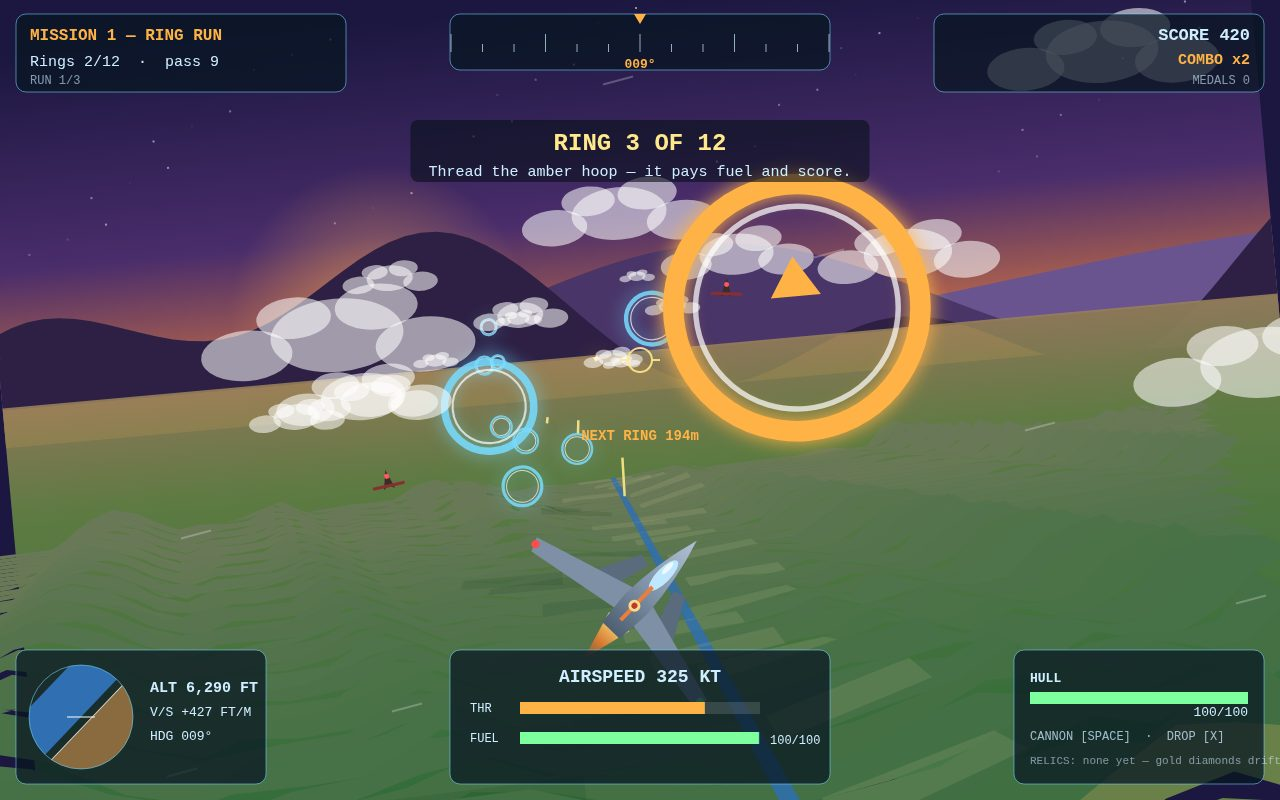
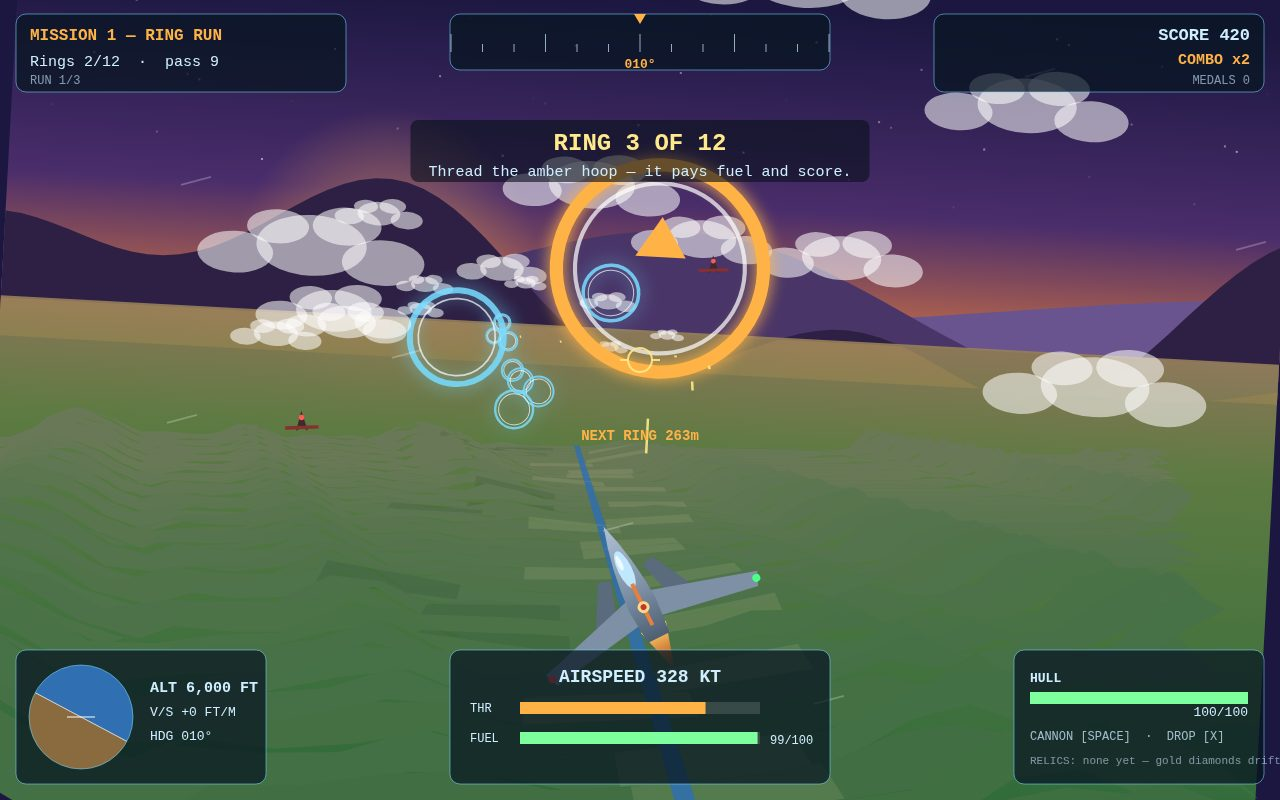
Balance + autopilot: gentler ring courses, heading-aware autopilot, hittable bosses
- Ring courses: steps +-130 x / +-140 y, spacing 420, radius 55; the
  autopilot now steers by desired heading (was position-only, oscillated
  and missed 9/12 rings). Headless autopilot run now clears all 3
  missions: 12/12 rings, 3/3 crates, both bosses, victory at 88 s.
- Stormhawk weave slowed (amp 150, 0.5 rad/s), bullet speed 1200,
  boss hit radius 48, fire interval 1.8 s.
- Screenshots re-staged (cover ring 263 m out, boss lane cleared of
  storm clouds); offscreen blit + 0.9 s freeze-frame for clean shots.

diff --git a/game/src/demo.js b/game/src/demo.js
@@ -33,11 +33,18 @@ export function autopilot(G, input) {
   // Drones in the way are worth a burst.
   if (G.drones.length && Math.abs(G.drones[0].z - p.z) < 800) wantFire = true;
 
+  // Heading-aware steering: aim the nose at the objective, don't chase it
+  // with raw position error (that oscillates — the heading outlives the
+  // bank that made it, so a position-only controller overshoots every ring).
   const dx = tx - p.x;
-  input.left = dx < -18;
-  input.right = dx > 18;
-  input.up = p.y < ty - 24;
-  input.down = p.y > ty + 24;
+  const desiredHeading = Math.atan2(dx, 320);
+  const headingErr = desiredHeading - p.heading;
+  input.left = headingErr < -0.03;
+  input.right = headingErr > 0.03;
+  // Pitch: climb or dive toward the objective's altitude, with a dead band.
+  const dy = ty - p.y;
+  input.up = dy > 30;
+  input.down = dy < -30;
   input.throttleUp = p.throttle < 0.72;
   input.throttleDown = p.throttle > 0.78;
   input.fire = wantFire;
@@ -72,14 +79,14 @@ export function stageShot(G, shot, seed, terrain) {
     startMission(G, 0, seed);
     G.screen = 'playing';
     G.autopilot = true;
-    p.z = 900; // next ring 300 m ahead
+    p.z = 700; // next ring ~260 m out once the 0.9 s freeze-frame settles
     p.x = -40; p.y = 400;
     p.throttle = 0.85; p.speed = 265; p.bank = 0.22; p.climb = 0;
     G.rings[0].passed = true; G.rings[1].passed = true;
     G.ringIndex = 2;
     G.rings[2].x = 60; G.rings[2].y = 430; G.rings[2].z = 1200;
-    G.rings[3].x = -90; G.rings[3].y = 380; G.rings[3].z = 1550;
-    G.rings[4].x = 140; G.rings[4].y = 470; G.rings[4].z = 1900;
+    G.rings[3].x = -90; G.rings[3].y = 380; G.rings[3].z = 1620;
+    G.rings[4].x = 140; G.rings[4].y = 470; G.rings[4].z = 2040;
     G.missionStats.ringsPassed = 2;
     G.combo = 2; G.comboTimer = 5;
     G.score = 420;
@@ -107,9 +114,14 @@ export function stageShot(G, shot, seed, terrain) {
     const boss = G.bosses.find((b) => b.kind === 'stormhawk');
     if (boss) { boss.hp = 0; G.missionStats.bossesDown = 1; }
     G.bosses = G.bosses.filter((b) => b.hp > 0);
-    // The Leviathan arrives already damaged and firing.
-    const lev = { kind: 'airship', x: -30, y: 470, z: p.z + 850, hp: 150, maxHp: 260, fireTimer: 0.5, phase: 2, speed: 0.4, droneTimer: 5 };
+    // The Leviathan arrives already damaged and firing, close enough to
+    // read clearly. Storm clouds are pushed to the flanks so the centre
+    // lane — and the boss — stay visible.
+    const lev = { kind: 'airship', x: -60, y: 500, z: p.z + 850, hp: 150, maxHp: 260, fireTimer: 0.5, phase: 2, speed: 0.4, droneTimer: 5 };
     G.bosses.push(lev);
+    for (const c of G.clouds) {
+      if (c.storm) c.x = (c.x < 0 ? -1 : 1) * (330 + Math.abs(c.x) % 140);
+    }
     G.drones = [
       { x: 200, y: 420, z: p.z + 500, hp: 30, maxHp: 30, fireTimer: 0.6, phase: 0.5 },
       { x: -260, y: 560, z: p.z + 680, hp: 30, maxHp: 30, fireTimer: 1.2, phase: 2 },

diff --git a/game/src/missions.js b/game/src/missions.js
@@ -58,7 +58,7 @@ export function startMission(G, index, seed) {
   G.rings = m.rings ? buildRingCourse(seed + index * 13, m.rings, 0) : [];
   G.zones = m.zones ? buildDropZones(seed + index * 7) : [];
   G.crates = m.zones || 0;
-  G.relicPickups = buildRelicPickups(seed + index * 3, RELICS, m.rings ? m.rings * 350 : 4500, p.relicLuck);
+  G.relicPickups = buildRelicPickups(seed + index * 3, RELICS, m.rings ? m.rings * 420 : 4500, p.relicLuck);
   G.drones = [];
   G.bosses = [];
   G.bullets = [];
@@ -267,11 +267,11 @@ export function updateMission(G, dt, terrain, audio, input) {
     b.phase += dt;
     if (b.kind === 'stormhawk') {
       b.z = p.z + 620;
-      b.x = Math.sin(b.phase * 0.8) * 260;
+      b.x = Math.sin(b.phase * 0.5) * 150;
       b.y = 420 + Math.sin(b.phase * 1.4) * 160;
       b.fireTimer -= dt;
       if (b.fireTimer <= 0) {
-        b.fireTimer = 1.5;
+        b.fireTimer = 1.8;
         enemyFire(G, b, audio);
       }
     } else {
@@ -335,7 +335,7 @@ export function updateMission(G, dt, terrain, audio, input) {
     }
     for (const boss of G.bosses) {
       if (boss.hp <= 0) continue;
-      const radius = boss.kind === 'airship' ? 150 : 34;
+      const radius = boss.kind === 'airship' ? 150 : 48;
       if (Math.abs(b.z - boss.z) < 30 && Math.hypot(b.x - boss.x, b.y - boss.y) < radius) {
         boss.hp -= p.bulletDamage;
         b.life = 0;
@@ -397,7 +397,7 @@ export function updateMission(G, dt, terrain, audio, input) {
   G.messages = G.messages.filter((msg) => msg.timer > 0);
 
   // ---- Mission end conditions ----
-  const courseEnd = m.rings ? m.rings * 350 + 800 : m.zones ? 1600 + 2 * 1500 + 500 : 0;
+  const courseEnd = m.rings ? m.rings * 420 + 800 : m.zones ? 1600 + 2 * 1500 + 500 : 0;
   if (m.id === 1 && p.z > courseEnd) {
     const ok = G.missionStats.ringsPassed >= m.need;
     endMission(G, ok, ok ? `Rings ${G.missionStats.ringsPassed}/${m.rings} — the ridge salutes you.` : `Only ${G.missionStats.ringsPassed}/${m.rings} rings. The ridge keeps its secrets.`, audio);

diff --git a/game/src/config.js b/game/src/config.js
@@ -18,7 +18,7 @@ export const FLIGHT = {
   cruiseThrottle: 0.68,
   accelRate: 55, // speed units/s^2 toward throttle target
   maxBank: 0.95, // radians of visual bank at full stick
-  turnRate: 0.42, // heading change per second at full bank, scaled by speed
+  turnRate: 0.55, // heading change per second at full bank, scaled by speed
   climbRate: 150, // world units/s of altitude at full pitch
   minAltitude: 40, // hard floor above the highest hill + margin
   maxAltitude: 950,
@@ -34,9 +34,9 @@ export const FLIGHT = {
   flakDamage: 10,
   stormDamagePerSec: 9,
   fireInterval: 0.12, // seconds between cannon shots
-  bulletSpeed: 950,
+  bulletSpeed: 1200,
   bulletRange: 1300,
-  ringRadius: 42, // world units; flying through the hoop counts
+  ringRadius: 55, // world units; flying through the hoop counts
   ringScore: 100,
   droneKillScore: 150,
   bossKillScore: 1000,

diff --git a/game/src/render.js b/game/src/render.js
@@ -2,7 +2,7 @@
 // One job: paint one frame of the world in depth order (far to near), then
 // the jet. The HUD and the menus live in hud.js, not here.
 
-import { VIEW, PALETTE } from './config.js';
+import { VIEW, PALETTE, FLIGHT } from './config.js';
 import { drawSky, drawRidges } from './terrain.js';
 import { project, drawPlayerJet, drawDrone, drawAirship, drawTracer } from './aircraft.js';
 import { clamp } from './random.js';
@@ -131,7 +131,7 @@ function drawCloud(ctx, cam, c, time) {
 function drawRing(ctx, cam, ring, isNext, time) {
   const p = project(cam, ring.x, ring.y, ring.z);
   if (!p) return;
-  const r = 42 * p.s;
+  const r = FLIGHT.ringRadius * p.s;
   if (r < 2) return;
   const pulse = isNext ? 1 + 0.12 * Math.sin(time * 6) : 1;
   ctx.save();

diff --git a/game/src/rings.js b/game/src/rings.js
@@ -12,9 +12,11 @@ export function buildRingCourse(seed, count, startZ) {
   let x = 0;
   let y = 320;
   for (let i = 0; i < count; i++) {
-    x = clamp(x + (rand() * 2 - 1) * 260, -320, 320);
-    y = clamp(y + (rand() * 2 - 1) * 260, 150, 700);
-    rings.push({ x, y, z: startZ + 500 + i * 350, passed: false, missed: false });
+    // Gentle steps: the pilot has ~1.7 s between rings, so each hoop sits
+    // within one comfortable turn of the last, never a snap across the sky.
+    x = clamp(x + (rand() * 2 - 1) * 130, -320, 320);
+    y = clamp(y + (rand() * 2 - 1) * 140, 150, 700);
+    rings.push({ x, y, z: startZ + 500 + i * 420, passed: false, missed: false });
   }
   return rings;
 }

diff --git a/game/src/main.js b/game/src/main.js
@@ -230,6 +230,9 @@ function frame(now) {
 if (shot) {
   stageShot(G, shot, seed, terrain);
   G.autopilot = shot !== 'score';
+  // ?freeze=0 lets a staged run play out in full (endurance testing):
+  // the frame no longer freezes 0.9 s in.
+  if (params.get('freeze') === '0') G.shotMode = false;
 } else if (demoMode) {
   G.autopilot = true;
 }
